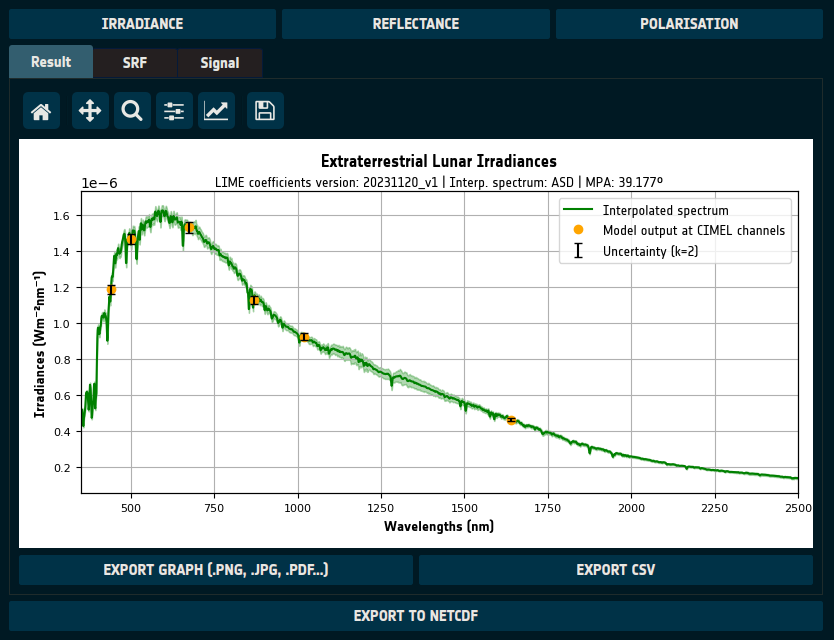
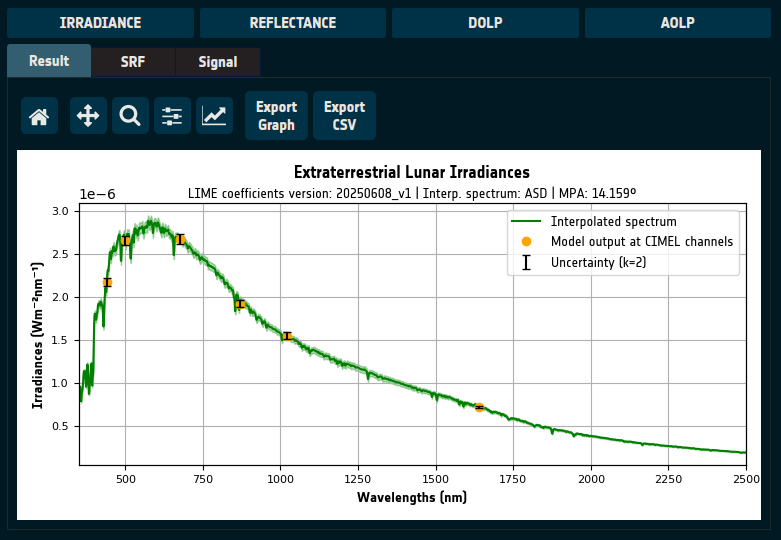
updated docs: images, reqs, and aolp info

diff --git a/docs/content/analysis.md b/docs/content/analysis.md
@@ -109,6 +109,8 @@ those in any previous official LIME documentation, as they are subject to change
 - **FR304**: The LIME TBX shall output the simulated lunar degree of polarization’s associated uncertainty.
 - **FR305**: Allow the visualization of the user defined spectral response used for the spectral integration
   of the LIME output into a sensor spectral band.
+- **FR306**: The LIME TBX shall output the simulated lunar disk angle of linear polarization (AoLP).
+- **FR307**: The LIME TBX shall output the simulated lunar angle of linear polarization’s associated uncertainty.
 
 #### Non Functional Requirements (NFR)
 - **NFR301**: The simulated lunar disk irradiance or reflectance (**FR301**) must be in the spectral range of 400 nm to 2500 nm.
@@ -116,7 +118,8 @@ those in any previous official LIME documentation, as they are subject to change
 - **NFR303**: The LIME simulated output shall be available to be exported to GLOD format files.
 - **NFR304**: The LIME version number shall be visible on all outputs (plots/files) of the TBX.
 - **NFR305**: Geometry information (coordinates, angles, etc.) and timestamps must be included in NetCDF and CSV output files.
-- **NFR306**: Calculation of uncertainties (**FR303**, **FR304**) must be performed as fast as possible. 
+- **NFR306**: Calculation of uncertainties (**FR303**, **FR304**, **FR307**) must be performed as fast as possible.
+- **NFR307**: The simulated lunar disk angle of linear polarization (**FR306**) must be in the spectral range of 400 nm to 2500 nm.
 
 ### 4. System
 

diff --git a/docs/content/user_guide/simulations.md b/docs/content/user_guide/simulations.md
@@ -189,7 +189,8 @@ The simulation results are displayed below the input section.
 Users can select one of the following button to run simulations and view results:
 - **"IRRADIANCE"** – Displays irradiance results.
 - **"REFLECTANCE"** – Shows reflectance results.
-- **"POLARIZATION"** – Visualizes Degree of Lunar Polarisation (DoLP).
+- **"DOLP"** – Visualises the Degree of Linear Polarisation (DoLP).
+- **"AOLP"** – Visualises the Angle of Linear Polarisation (AoLP).
 
 These buttons are positioned between the input and the output, as shown on top of [Figure 12](#fig-12).
 
